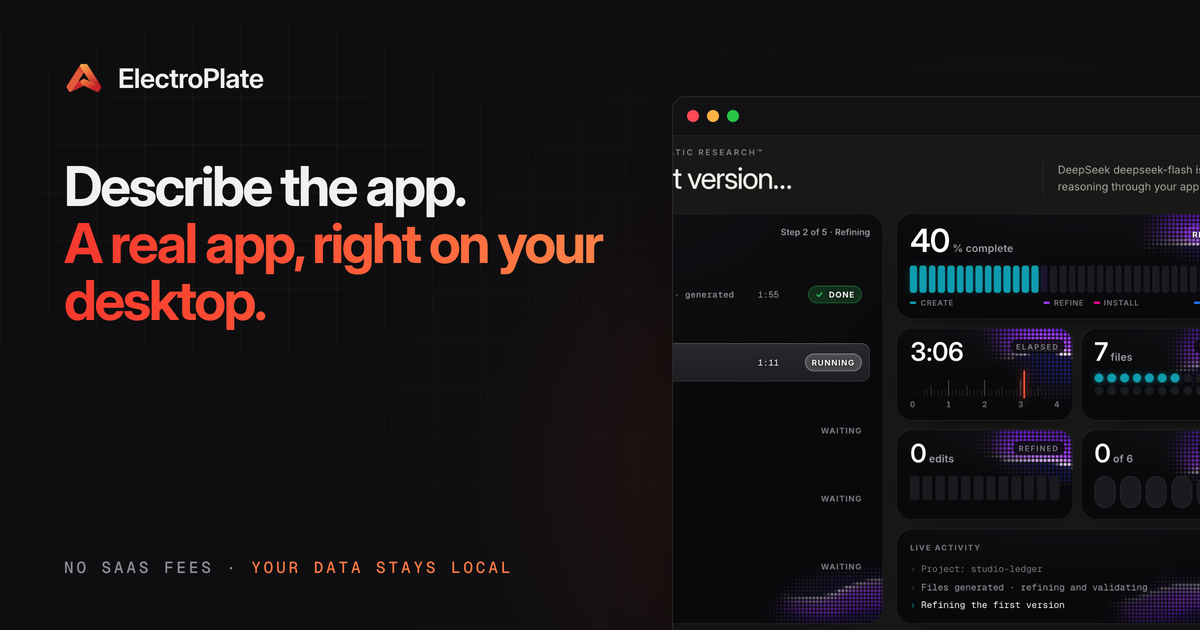
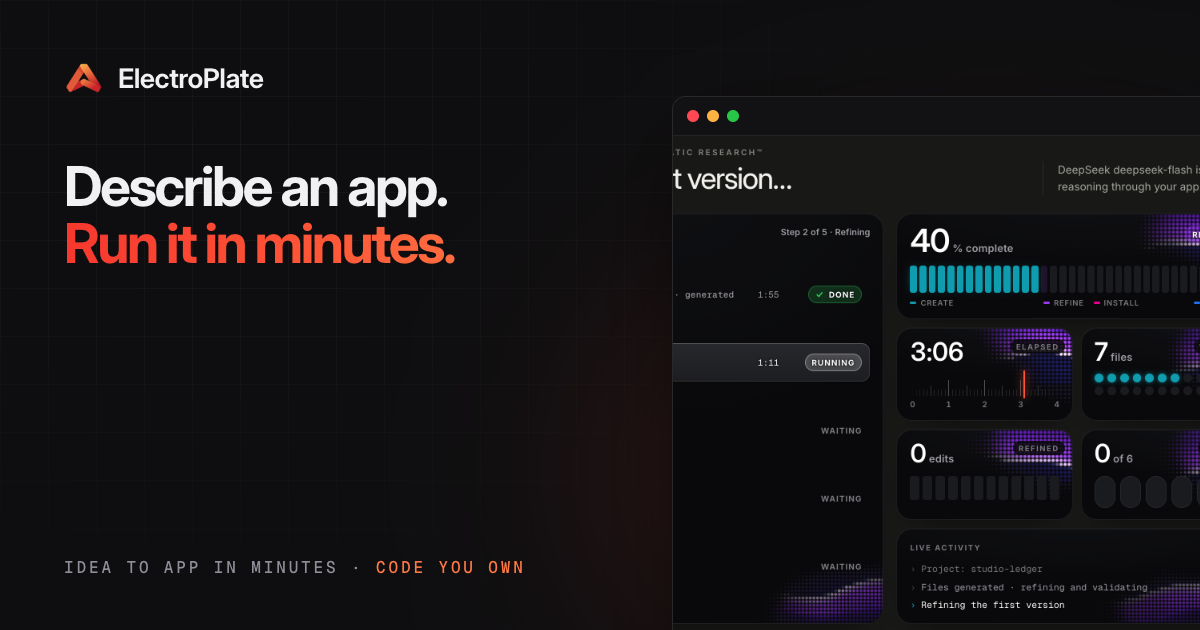
Site: rebrand as a rapid desktop app studio, and a dark Studio in the showcase

Changed region(s): [[0.0308, 0.2714, 0.5242, 0.5127], [0.0617, 0.8746, 0.4317, 0.9349]]

diff --git a/index.html b/index.html
@@ -4,21 +4,21 @@
   <meta charset="utf-8">
   <meta name="viewport" content="width=device-width, initial-scale=1">
   <meta http-equiv="Content-Security-Policy" content="default-src 'self'; img-src 'self' data:; style-src 'self'; script-src 'self'; font-src 'self'; connect-src https://api.github.com; object-src 'none'; base-uri 'self'; form-action 'none'">
-  <title>ElectroPlate — Describe the app. A real app, right on your desktop.</title>
-  <meta name="description" content="ElectroPlate turns a plain-English description of your business workflow into a secure, custom desktop application—with zero monthly fees.">
+  <title>ElectroPlate — Describe an app. Run it in minutes.</title>
+  <meta name="description" content="ElectroPlate is a rapid desktop software studio: describe an app in plain English and it writes, installs, launches and checks a real desktop app on your machine.">
   <meta name="theme-color" content="#0b0b0e">
   <meta property="og:type" content="website">
   <meta property="og:site_name" content="ElectroPlate">
-  <meta property="og:title" content="ElectroPlate — Describe the app. A real app, right on your desktop.">
-  <meta property="og:description" content="Turn a plain-English description of your business workflow into a secure, custom desktop application—with zero monthly fees.">
+  <meta property="og:title" content="ElectroPlate — Describe an app. Run it in minutes.">
+  <meta property="og:description" content="ElectroPlate is a rapid desktop software studio: describe an app in plain English and it writes, installs, launches and checks a real desktop app on your machine.">
   <meta property="og:url" content="https://godsonj64.github.io/electroplate-releases/">
-  <meta property="og:image" content="https://godsonj64.github.io/electroplate-releases/assets/og.png?v=1.18.0">
+  <meta property="og:image" content="https://godsonj64.github.io/electroplate-releases/assets/og.png?v=1.18.0-2">
   <meta property="og:image:width" content="1200">
   <meta property="og:image:height" content="630">
   <meta name="twitter:card" content="summary_large_image">
-  <meta name="twitter:title" content="ElectroPlate — Describe the app. A real app, right on your desktop.">
-  <meta name="twitter:description" content="Custom desktop software from a plain-English description. No SaaS fees, your data stays on your computer.">
-  <meta name="twitter:image" content="https://godsonj64.github.io/electroplate-releases/assets/og.png?v=1.18.0">
+  <meta name="twitter:title" content="ElectroPlate — Describe an app. Run it in minutes.">
+  <meta name="twitter:description" content="Describe an app in plain English. ElectroPlate builds, launches and checks it on your machine — code you own, with the AI model you choose.">
+  <meta name="twitter:image" content="https://godsonj64.github.io/electroplate-releases/assets/og.png?v=1.18.0-2">
   <link rel="icon" type="image/png" href="assets/logo-64.png">
   <link rel="apple-touch-icon" href="assets/logo-256.png">
   <link rel="preload" href="assets/fonts/Inter.woff2" as="font" type="font/woff2" crossorigin>
@@ -42,7 +42,7 @@
       <nav class="site-nav" id="site-nav" aria-label="Primary" data-nav>
         <a href="#product">Product</a>
         <a href="#workflow">How it works</a>
-        <a href="#showcase">Examples</a>
+        <a href="#showcase">Studio</a>
         <a href="#privacy">Privacy</a>
         <a class="nav-cta" href="#download">Download</a>
       </nav>
@@ -59,10 +59,10 @@
 
       <div class="hero-copy">
         <h1 id="hero-title">
-          <span class="h1-line">Describe the app.</span>
-          <span class="h1-line h1-molten">A real app, right on your desktop.</span>
+          <span class="h1-line">Describe an app.</span>
+          <span class="h1-line h1-molten">Run it in minutes.</span>
         </h1>
-        <p class="hero-lede">ElectroPlate turns a plain-English description of your business workflow into a secure, custom desktop application—with zero monthly fees.</p>
+        <p class="hero-lede">ElectroPlate is a desktop software studio that turns one plain-English brief into a real app on your machine — written, installed, launched and fixed for you, with the AI model you already use.</p>
         <div class="hero-actions">
           <a class="button button-molten" data-download href="#download">
             <span data-download-label>Download for macOS</span>
@@ -72,9 +72,9 @@
         </div>
         <p class="microcopy">Version <span data-version>1.18.0</span> · macOS Apple Silicon + Intel · Windows x64</p>
         <ul class="assurances" aria-label="What you get">
-          <li>No monthly SaaS fees</li>
-          <li>100% data privacy</li>
-          <li>Own your software forever</li>
+          <li>Idea to app in minutes</li>
+          <li>Your code, your machine</li>
+          <li>Bring your own AI</li>
         </ul>
       </div>
 
@@ -95,12 +95,12 @@
           <span class="proof-check" aria-hidden="true">
             <svg viewBox="0 0 20 20" width="18" height="18"><path d="M5 10.5l3.2 3.2L15 7" fill="none" stroke="currentColor" stroke-width="2.2" stroke-linecap="round" stroke-linejoin="round"/></svg>
           </span>
-          <span><strong>Custom software ready</strong><small>Built securely on your machine</small></span>
+          <span><strong>Launched and clicked through</strong><small>Every build is tested on your machine</small></span>
         </aside>
       </div>
 
       <div class="providers" aria-labelledby="providers-title">
-        <p id="providers-title">Securely connect the AI model you trust</p>
+        <p id="providers-title">Works with the AI model you already use</p>
         <ul>
           <li>OpenAI</li>
           <li>Anthropic</li>
@@ -113,8 +113,8 @@
     <section class="section statement" id="product" aria-labelledby="product-title">
       <div class="container statement-grid">
         <p class="index">01 / Product</p>
-        <h2 id="product-title" class="reveal">Stop adapting your business to generic software.</h2>
-        <p class="statement-body reveal">ElectroPlate builds bespoke tools for your exact workflow. Skip the rigid SaaS templates, avoid recurring monthly fees, and keep your company data strictly on your own computer. You get the quality and convenience of enterprise software, with absolute control.</p>
+        <h2 id="product-title" class="reveal">That tool you keep wishing for? Build it this afternoon.</h2>
+        <p class="statement-body reveal">Every team has an app it wishes it had: too specific to buy, too small to hire someone for. ElectroPlate closes that gap. Describe what it should do and you get a working desktop app, with its code in a folder you own — ready to use, change, or hand to a developer.</p>
       </div>
     </section>
 
@@ -125,10 +125,10 @@
           <li class="step reveal">
             <div class="step-head">
               <span class="step-no">01</span>
-              <span class="chip">Plain English in</span>
+              <span class="chip">Plain English</span>
             </div>
-            <h3>Describe your workflow</h3>
-            <p>Explain your business process, what you need to track, and how it should function. No technical jargon required.</p>
+            <h3>Describe it</h3>
+            <p>Name the app and say what it should do, the way you would explain it to a friend. Pick a look and a data setup, or keep the smart defaults.</p>
             <div class="step-shot">
               <img src="assets/shots/step-describe-half.webp?v=1.18.0" srcset="assets/shots/step-describe-half.webp?v=1.18.0 920w, assets/shots/step-describe-full.webp?v=1.18.0 1840w" sizes="(max-width: 900px) calc(100vw - 32px), 400px" width="1840" height="980" loading="lazy" alt="ElectroPlate Easy mode with an invoicing app described in plain English">
             </div>
@@ -136,10 +136,10 @@
           <li class="step reveal" data-delay="1">
             <div class="step-head">
               <span class="step-no">02</span>
-              <span class="chip">Private &amp; secure</span>
+              <span class="chip">Live build</span>
             </div>
-            <h3>Watch it materialize</h3>
-            <p>ElectroPlate instantly generates a complete, tailored application directly on your hard drive. No cloud storage, no data leaks.</p>
+            <h3>Watch it come together</h3>
+            <p>ElectroPlate writes the files, gives them a second pass, installs what they need and opens the app — and every display shows which stage it is on.</p>
             <div class="step-shot">
               <img src="assets/shots/step-build-half.webp?v=1.18.0" srcset="assets/shots/step-build-half.webp?v=1.18.0 1076w, assets/shots/step-build-full.webp?v=1.18.0 2152w" sizes="(max-width: 900px) calc(100vw - 32px), 400px" width="2152" height="1384" loading="lazy" alt="ElectroPlate refining the first version of the invoicing app: the stage board, 48 percent complete, seven files written and three edits so far, with the displays lit violet">
             </div>
@@ -147,10 +147,10 @@
           <li class="step reveal" data-delay="2">
             <div class="step-head">
               <span class="step-no">03</span>
-              <span class="chip">Ready for work</span>
+              <span class="chip">Ready to run</span>
             </div>
-            <h3>Refine and launch</h3>
-            <p>Review your new tool, adjust it to perfection, and deploy it for your business. High quality, fully functional, and 100% yours.</p>
+            <h3>Use it, then keep shaping it</h3>
+            <p>Your app opens on its own. Ask for a change in plain words and it rebuilds in place, or ship an installer for your machine.</p>
             <div class="step-shot">
               <img src="assets/shots/step-ready-half.webp?v=1.18.0" srcset="assets/shots/step-ready-half.webp?v=1.18.0 1076w, assets/shots/step-ready-full.webp?v=1.18.0 2152w" sizes="(max-width: 900px) calc(100vw - 32px), 400px" width="2152" height="1074" loading="lazy" alt="ElectroPlate reporting the invoicing app is ready and running: seven files on disk, built in three minutes forty-two seconds, started cleanly on the first launch">
             </div>
@@ -164,8 +164,8 @@
         <div class="showcase-head">
           <p class="index">03 / In practice</p>
           <div>
-            <h2 id="showcase-title" class="reveal">From a business problem to a working solution.</h2>
-            <p class="reveal">See how easily you can replace expensive, clunky SaaS subscriptions with a secure, custom-built application designed specifically for your daily operations.</p>
+            <h2 id="showcase-title" class="reveal">Two ways to build. One engine underneath.</h2>
+            <p class="reveal">Easy mode takes a sentence and hands back a running app. Studio opens the hood: live code, the reviewer's notes, every file and the full pipeline log.</p>
           </div>
         </div>
 
@@ -175,17 +175,17 @@
             <button type="button" role="tab" id="tab-easy" aria-selected="false" aria-controls="panel-easy" tabindex="-1" data-demo-tab="easy"><span>02</span> Easy mode</button>
           </div>
           <div class="demo-panel" id="panel-studio" role="tabpanel" aria-labelledby="tab-studio" data-demo-panel="studio">
-            <figure class="window window-light">
+            <figure class="window window-dark">
               <div class="window-bar">
                 <span class="traffic" aria-hidden="true"><i></i><i></i><i></i></span>
                 <span class="window-title">ElectroPlate Studio</span>
-                <span class="window-status"><i aria-hidden="true"></i>Refining</span>
+                <span class="window-status window-status-good"><i aria-hidden="true"></i>Running</span>
               </div>
-              <img src="assets/shots/studio-light-full.webp?v=1.18.0"
-                   srcset="assets/shots/studio-light-half.webp?v=1.18.0 1600w, assets/shots/studio-light-full.webp?v=1.18.0 3200w"
+              <img src="assets/shots/studio-running-dark-full.webp"
+                   srcset="assets/shots/studio-running-dark-half.webp 1600w, assets/shots/studio-running-dark-full.webp 3200w"
                    sizes="(max-width: 1320px) calc(100vw - 32px), 1200px"
                    width="3200" height="2128" loading="lazy"
-                   alt="ElectroPlate Pro Studio in the light theme, refining the same invoicing app, with the displays set into the page as light wells">
+                   alt="ElectroPlate Studio after the build: the invoicing app running on its first launch, with the reviewer's three edits and the full pipeline log">
             </figure>
           </div>
           <div class="demo-panel" id="panel-easy" role="tabpanel" aria-labelledby="tab-easy" data-demo-panel="easy" hidden>
@@ -197,8 +197,8 @@
             </div>
           </div>
           <div class="demo-caption">
-            <strong>No templates. Total control.</strong>
-            <span>Skip the generic SaaS platforms. Get exactly the features you need, built securely.</span>
+            <strong>Fast by default. Deep when you want it.</strong>
+            <span>Start in Easy mode and switch to Studio anytime — same project, same files.</span>
           </div>
         </div>
 
@@ -225,28 +225,28 @@
       <div class="container principles-grid">
         <div>
           <p class="index">04 / Principles</p>
-          <h2 id="principles-title" class="reveal">Total ownership.<br><span class="muted-line">Zero compromises.</span></h2>
+          <h2 id="principles-title" class="reveal">Yours, local, fast.<br><span class="muted-line">No strings attached.</span></h2>
         </div>
         <ol class="principle-list">
           <li class="reveal">
             <span class="principle-no">01</span>
             <div>
-              <h3>100% Ownership. No SaaS fees</h3>
-              <p>You own the software completely. Say goodbye to monthly subscriptions, per-seat licenses, and forced cloud upgrades.</p>
+              <h3>You own every line</h3>
+              <p>Each app is plain source code in a folder on your computer. Change it, share it, sell it — no lock-in and no per-seat fees.</p>
             </div>
           </li>
           <li class="reveal" data-delay="1">
             <span class="principle-no">02</span>
             <div>
-              <h3>Absolute Data Privacy</h3>
-              <p>Your business data never leaves your computer. By running locally, you prevent data leaks and maintain strict security.</p>
+              <h3>Private by default</h3>
+              <p>Your apps and their data stay on your machine. Your brief goes only to the AI provider you choose, with your own key.</p>
             </div>
           </li>
           <li class="reveal" data-delay="2">
             <span class="principle-no">03</span>
             <div>
-              <h3>Uncompromising Quality</h3>
-              <p>Automated quality control ensures your custom software is polished, reliable, and ready to handle your daily operations.</p>
+              <h3>Checked before you see it</h3>
+              <p>Every build is launched and clicked through. If it breaks, ElectroPlate repairs it and tries again — up to five times.</p>
             </div>
           </li>
         </ol>
@@ -257,18 +257,18 @@
       <div class="container">
         <img class="quote-mark" src="assets/logo-128.png" width="56" height="56" alt="">
         <blockquote class="reveal">
-          <p>“The most efficient business is one that runs on software built exactly for its workflow.”</p>
+          <p>“If you can describe it, you can run it.”</p>
         </blockquote>
-        <p class="quote-source">ElectroPlate philosophy</p>
+        <p class="quote-source">The ElectroPlate idea</p>
       </div>
     </section>
 
     <section class="section download" id="download" aria-labelledby="download-title">
       <div class="container download-grid">
         <div class="download-copy">
-          <p class="eyebrow"><i aria-hidden="true"></i>Take back control</p>
-          <h2 id="download-title" class="reveal">Stop renting generic software. Build your own.</h2>
-          <p class="reveal">Choose your platform and start generating custom, secure software for your business today.</p>
+          <p class="eyebrow"><i aria-hidden="true"></i>Start building</p>
+          <h2 id="download-title" class="reveal">Your next app is one sentence away.</h2>
+          <p class="reveal">Download ElectroPlate for macOS or Windows, add your AI key, and describe the first thing you want to build.</p>
         </div>
 
         <div class="release-card reveal" data-delay="1">
@@ -312,11 +312,11 @@
           <img src="assets/logo-128.png" width="28" height="28" alt="">
           <span>ElectroPlate</span>
         </a>
-        <p>Bespoke local software for modern businesses. No SaaS fees, no data leaks, and absolute control over your workflow.</p>
+        <p>A rapid desktop software studio. Describe an app and get a real one — built, launched and checked on your machine.</p>
       </div>
       <div class="footer-company">
         <h2>A product of Axiomatic Research</h2>
-        <p>We believe entrepreneurs should own their technology, not rent it. ElectroPlate bridges the gap between your custom operations and secure, working software.</p>
+        <p>We make tools that turn ideas into software people own. ElectroPlate is our fastest route from a sentence to a running desktop app.</p>
         <p>Contact: <a href="mailto:godson@axiomaticresearch.com">godson@axiomaticresearch.com</a></p>
       </div>
       <nav class="footer-links" aria-labelledby="footer-resources">

diff --git a/styles.css b/styles.css
@@ -264,6 +264,7 @@ ol, ul { margin: 0; padding: 0; list-style: none; }
   font: 500 11px/1 var(--mono); letter-spacing: .12em; text-transform: uppercase; color: var(--flame);
 }
 .window-light .window-status { color: var(--accent-ink); }
+.window-status-good { color: #30d158; }
 .window-status i { width: 7px; height: 7px; border-radius: 50%; background: currentColor; animation: pulse 1.6s ease-in-out infinite; }
 @keyframes pulse { 50% { opacity: .25; transform: scale(.8); } }
 
